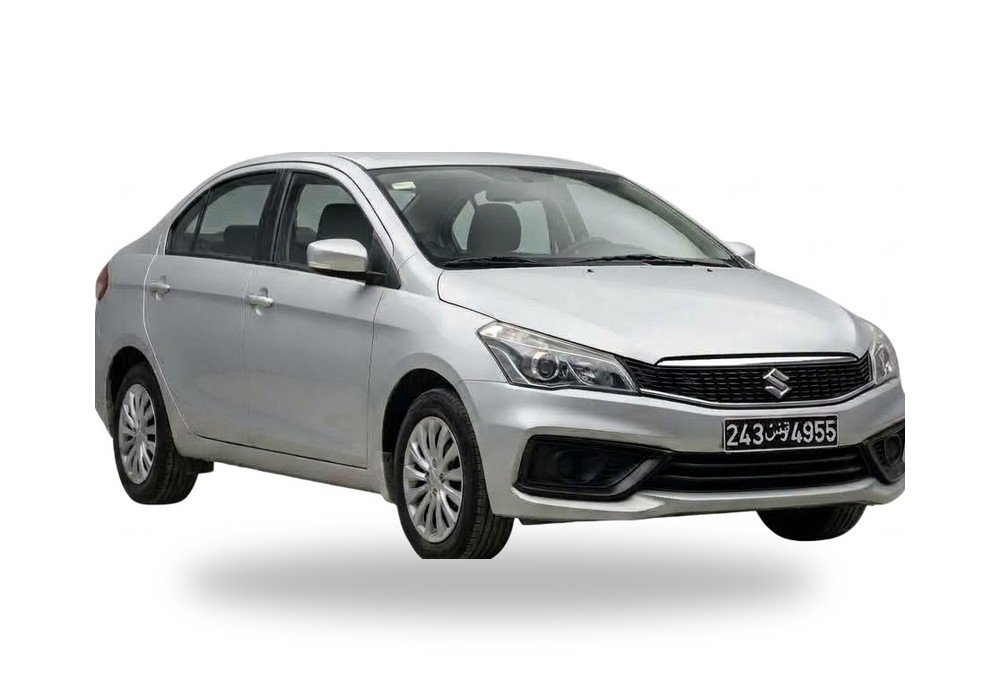
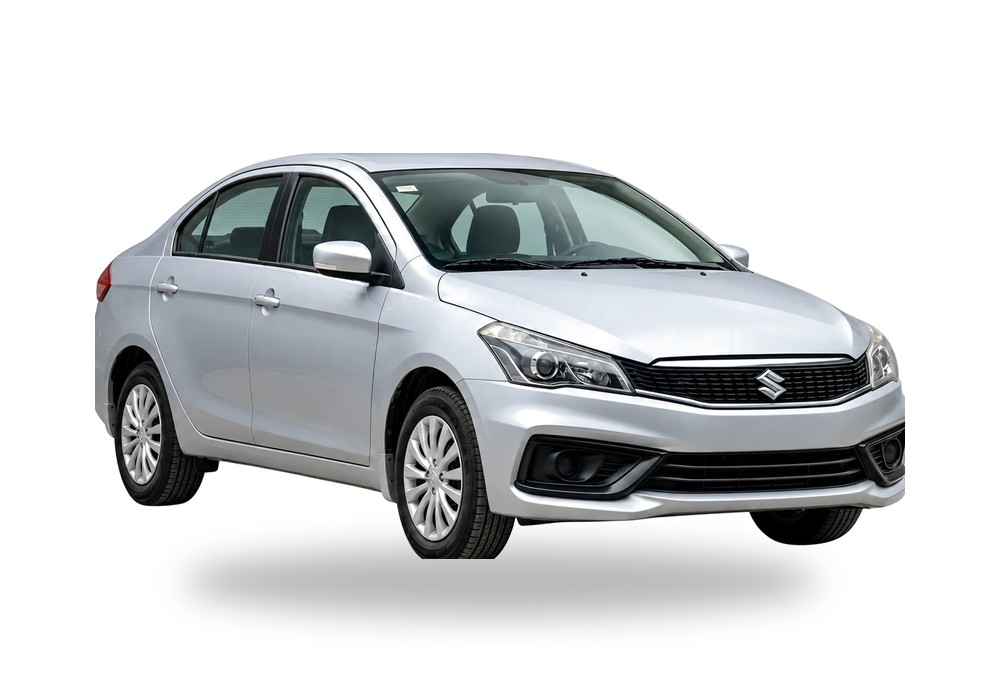
Ciaz: one grey Ciaz only, using the cleaned 2024 photo (no plate)
Removed the duplicate grey Ciaz 2023 (243 TU 4956); the silver Ciaz 2024
(243 TU 4955) now uses the supplied cleaned image. Fleet count 26 -> 25.

Changed region(s): [[0.093, 0.2137, 0.93, 0.7936], [0.775, 0.3968, 0.806, 0.4273]]

diff --git a/index.html b/index.html
@@ -243,7 +243,7 @@
   <div class="wrap">
     <div class="section-head">
       <span class="eyebrow">Notre flotte</span>
-      <h2>26 véhicules disponibles</h2>
+      <h2>25 véhicules disponibles</h2>
       <p>Écrivez-nous le modèle qui vous intéresse — nous confirmons la disponibilité et le tarif par téléphone ou WhatsApp.</p>
     </div>
     <div class="fleet-grid">
@@ -497,24 +497,6 @@
             <span>Économique</span>
             <span class="dot">&middot;</span>
             <span>Manuelle</span>
-          </div>
-        </article>
-
-        <article class="car-card">
-          <div class="car-photo">
-            <img src="images/SUZUKI-Ciaz-2023-243TU4956.jpg" alt="Suzuki Ciaz 2023" loading="lazy" width="1000" height="688" />
-          </div>
-          <div class="car-info">
-            <div class="car-name">
-              <h3>Suzuki</h3>
-              <p>Ciaz</p>
-            </div>
-            <span class="plate-tag">2023</span>
-          </div>
-          <div class="car-specs">
-            <span>Berline</span>
-            <span class="dot">&middot;</span>
-            <span>Automatique</span>
           </div>
         </article>
 
